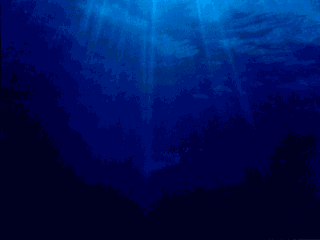
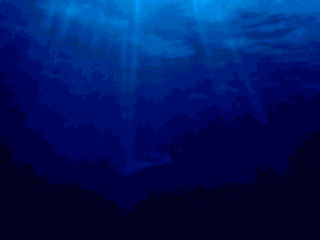
Darker site style + background and style updates

diff --git a/_sass/jekyll-theme-modernist.scss b/_sass/jekyll-theme-modernist.scss
@@ -61,9 +61,9 @@ $baseurl: "../../";
 
 .space-between * { display: inline-block; }
 
-html { background-image: url($baseurl + "/images/bg.png"); background-repeat: no-repeat; background-size: cover; background-attachment: fixed; height: 100%; }
+html { background-image: url($baseurl + "images/bg.png"); background-repeat: no-repeat; background-size: cover; background-attachment: fixed; height: 100%; }
 
-body { padding: 50px 0; margin: 0; font: 14px/1.5 Lato, "Helvetica Neue", Helvetica, Arial, sans-serif; font-weight: 300; min-height: calc(100% - 100px); }
+body { padding: 50px 0; margin: 0; font: 14px/1.5 Lato, "Helvetica Neue", Helvetica, Arial, sans-serif; font-weight: 300; min-height: calc(100% - 100px); color: white; }
 
 .wrapper { width: 740px; margin: 0 auto; background: #DEDEDE; box-shadow: rgba(0, 0, 0, 0.2) 0 0 0 1px, rgba(0, 0, 0, 0.45) 0 3px 10px; }
 
@@ -73,9 +73,9 @@ a { color: #069; text-decoration: none; }
 
 p { margin: 0 0 20px; padding: 0; }
 
-strong { color: #222; font-weight: 700; }
+strong { font-weight: 700; }
 
-header { background: #C6EAFA; position: relative; padding: 15px 20px 8px; border-bottom: 1px solid #B2D2E1; text-align: center;}
+header { background: #003090; position: relative; padding: 15px 20px 8px; border-bottom: 1px solid #626d83; text-align: center;}
 header h1 { margin: 0; padding: 0; font-size: 24px; line-height: 1.2; color: #069; text-shadow: rgba(255, 255, 255, 0.9) 0 1px 0; }
 header.without-description h1 { margin: 10px 0; }
 header p { margin: 0; color: #61778B; width: 300px; font-size: 13px; }
@@ -92,11 +92,11 @@ header ul li a { line-height: 1; font-size: 15px; color: #fff; font-weight: bold
 // header ul a strong { font-size: 14px; display: block; color: #fff; -webkit-font-smoothing: antialiased; }
 @media (max-width: 570px) { header ul li a { font-size: 13px; } }
 
-section { padding: 65px 20px 10px 20px; font-size: 18px; border-top: 1px solid #fff; background: linear-gradient(#fafafa, #DEDEDE 700px); position: relative; }
+section { padding: 65px 20px 10px 20px; font-size: 18px; border-top: 1px solid #626d83; background:linear-gradient(#101080, #000040 700px); position: relative; }
 
 section img#cover { margin-top: 15px; }
 
-section a { color: #06c; }
+section a { color: #AECEEC; font-weight: bold; font-size: 17px; }
 
 section a:hover { text-decoration: underline; }
 
@@ -112,7 +112,7 @@ section ul#news li { margin-left: 45px; }
 
 section ul#news li:nth-last-of-type(1) { margin-bottom: 15px; }
 
-h1, h2, h3, h4, h5, h6 { color: #222; padding: 0; margin: 0 0 20px; line-height: 1.2; }
+h1, h2, h3, h4, h5, h6 { padding: 0; margin: 0 0 20px; line-height: 1.2; }
 
 p, ul, ol, table, pre, dl { margin: 0 0 20px; }
 
@@ -124,23 +124,21 @@ section h2, section .spacing-top { margin-top: 40px !important; }
 
 section #latest-post-home-info { text-align: center; margin: 5px 0 5px; }
 
-h1 { font-size: 28px; }
+section .primary a, section #latest-post-home-info a { font-size: inherit; }
 
-h2 { color: #393939; }
-
-h3, h4, h5, h6 { color: #494949; }
+h1, h1 a { font-size: 28px; }
 
 h5.date { margin-top: 30px !important; }
 
-blockquote { margin: 0 -20px 20px; padding: 15px 20px 1px 40px; font-style: italic; background: #ccc; background: rgba(0, 0, 0, 0.06); color: #222; }
+blockquote { margin: 0 -20px 20px; padding: 15px 20px 1px 40px; font-style: italic; background: #ccc; background: rgba(0, 0, 0, 0.06); }
 
 img { max-width: 100%; }
 
-section img.screenshot { max-width: 40%; height: 100%; margin: 10px 30px 10px 0; transition: 0.5s; }
+section img.screenshot { max-width: 40%; height: 100%; margin: 10px 30px 10px 0; }
 
-section img.screenshot:hover { transform: scale(1.1); cursor: pointer; }
+section img.screenshot:hover { transform: scale(1.03); cursor: pointer; }
 
-code, pre { font-family: Monaco, Bitstream Vera Sans Mono, Lucida Console, Terminal; color: #333; font-size: 14px; overflow-x: auto; }
+code, pre { font-family: Monaco, Bitstream Vera Sans Mono, Lucida Console, Terminal; font-size: 14px; overflow-x: auto; }
 
 pre { padding: 20px; background: #3A3C42; color: #f8f8f2; margin: 0 -20px 20px; }
 pre code { color: #f8f8f2; }
@@ -150,9 +148,7 @@ table { width: 100%; border-collapse: collapse; }
 
 th, td { text-align: left; padding: 5px 10px; border-bottom: 1px solid #aaa; }
 
-dt { color: #222; font-weight: 700; }
-
-th { color: #222; }
+dt { font-weight: 700; }
 
 small { font-size: 11px; }
 
